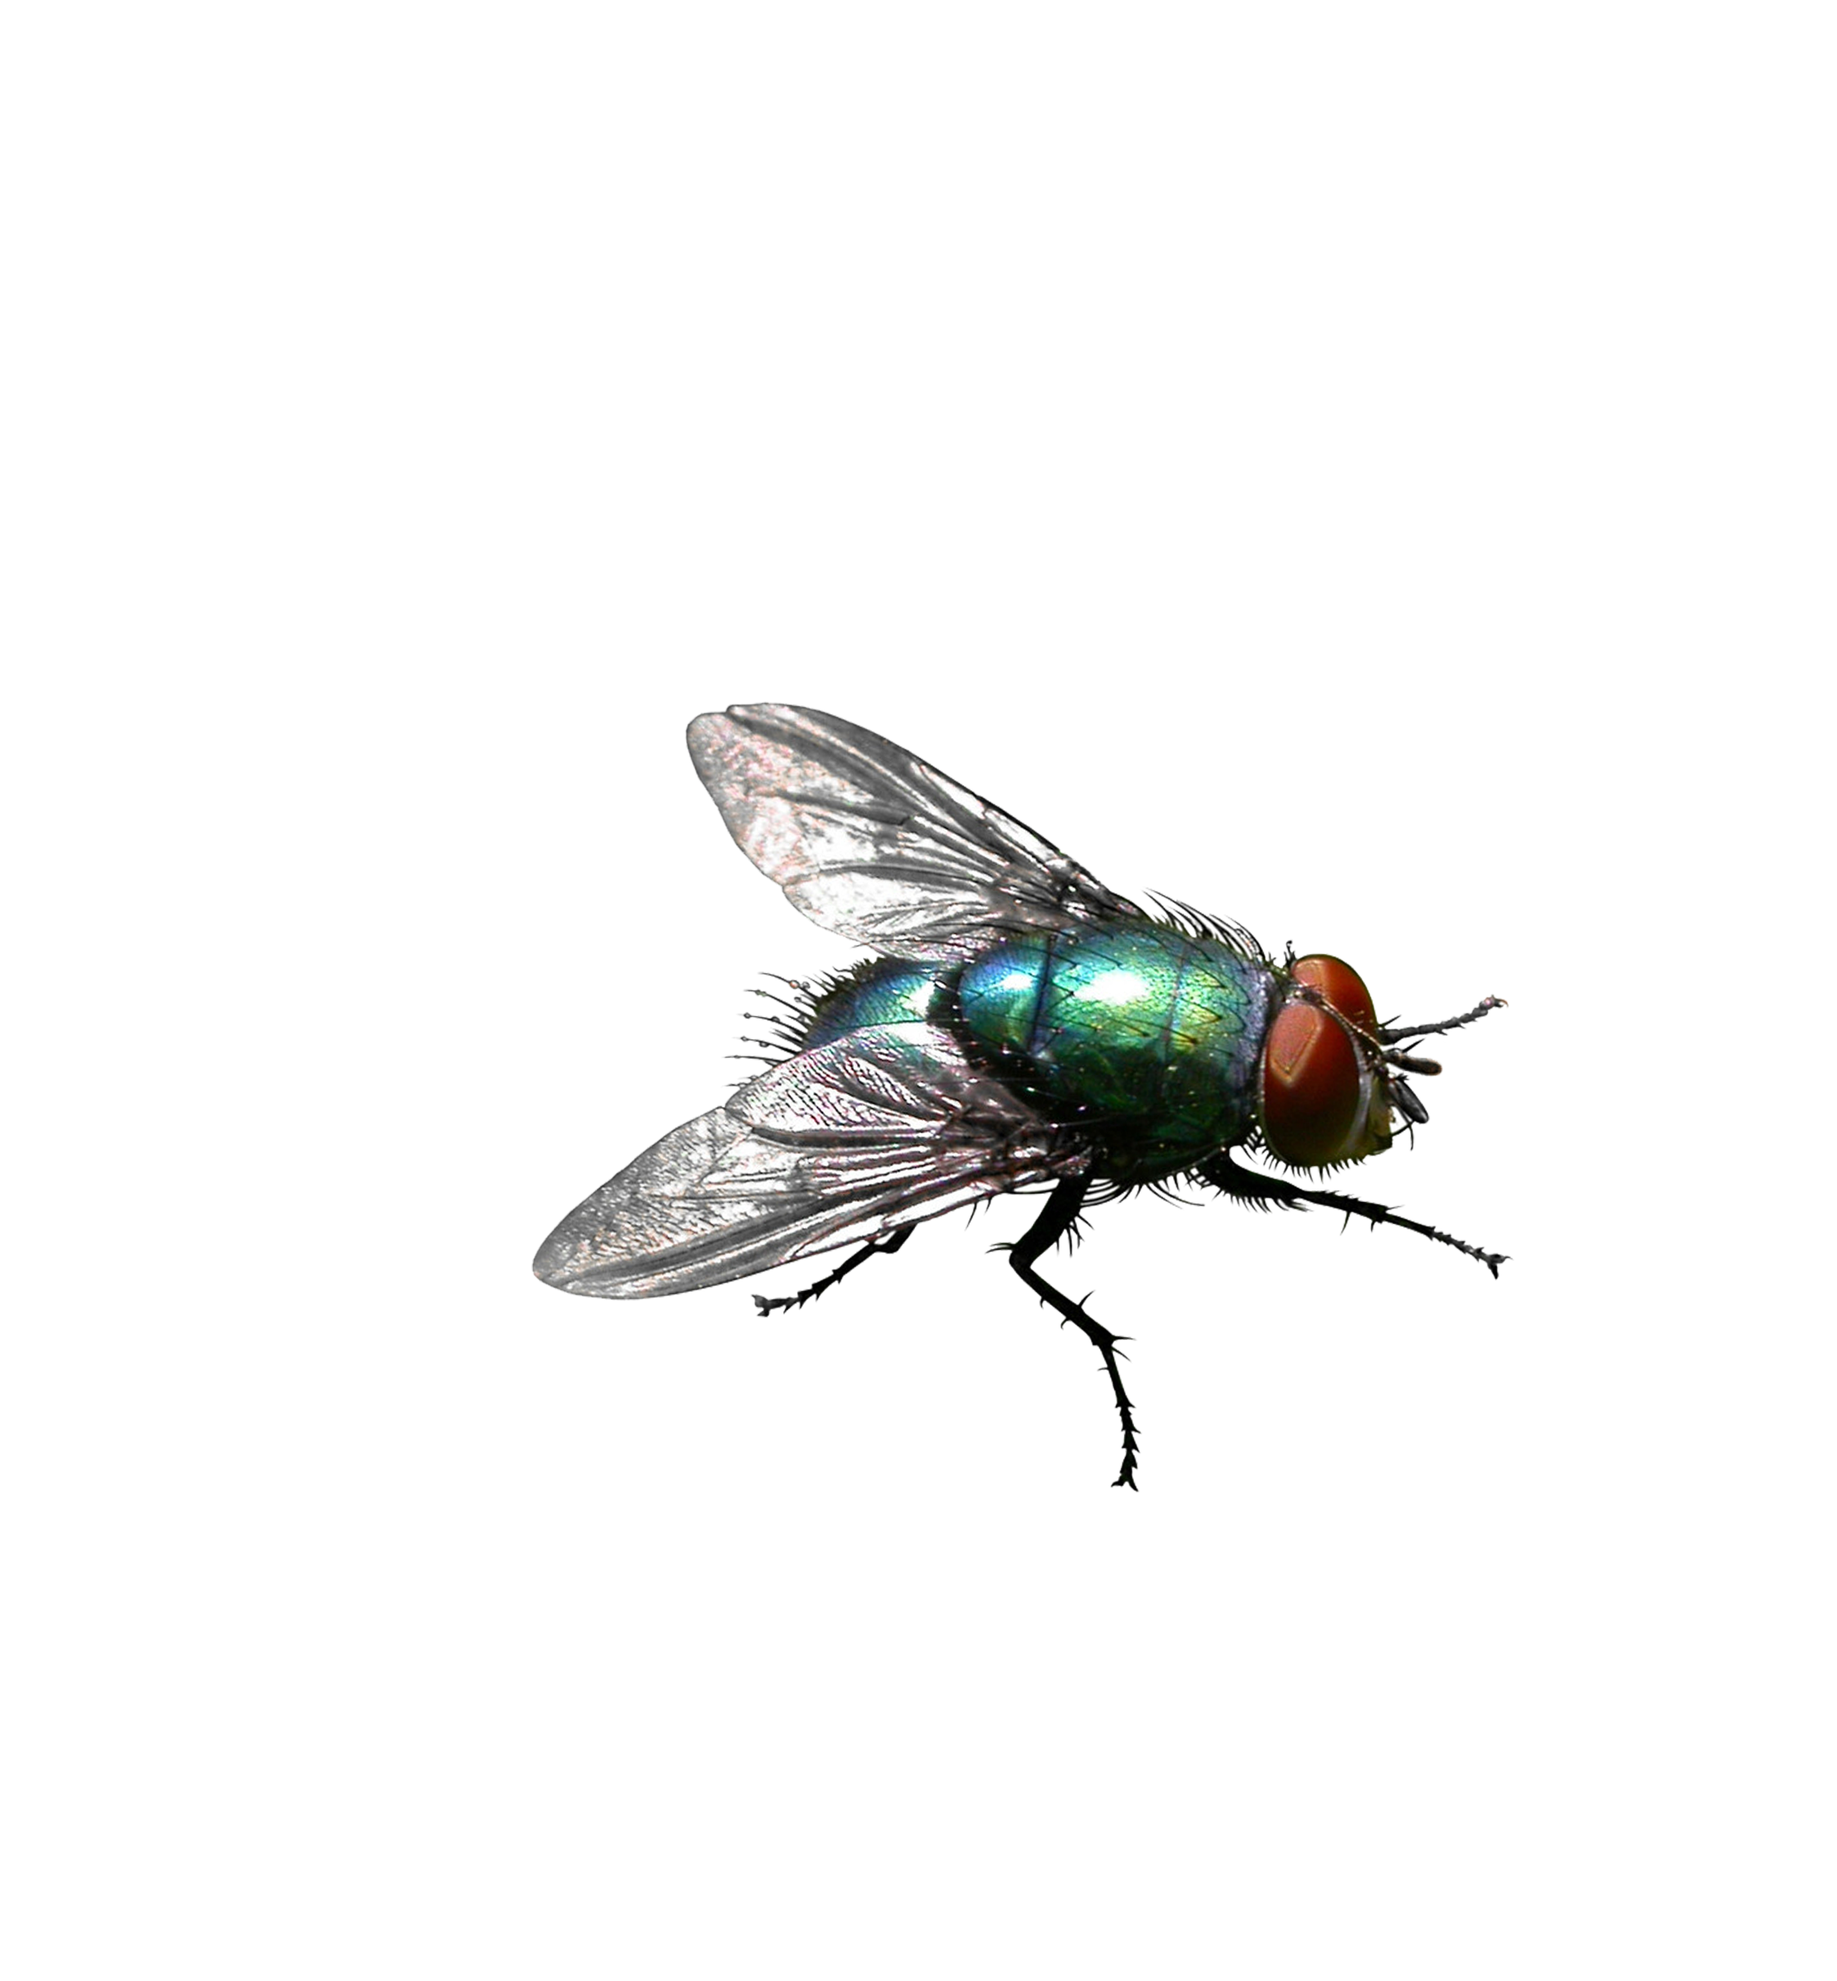
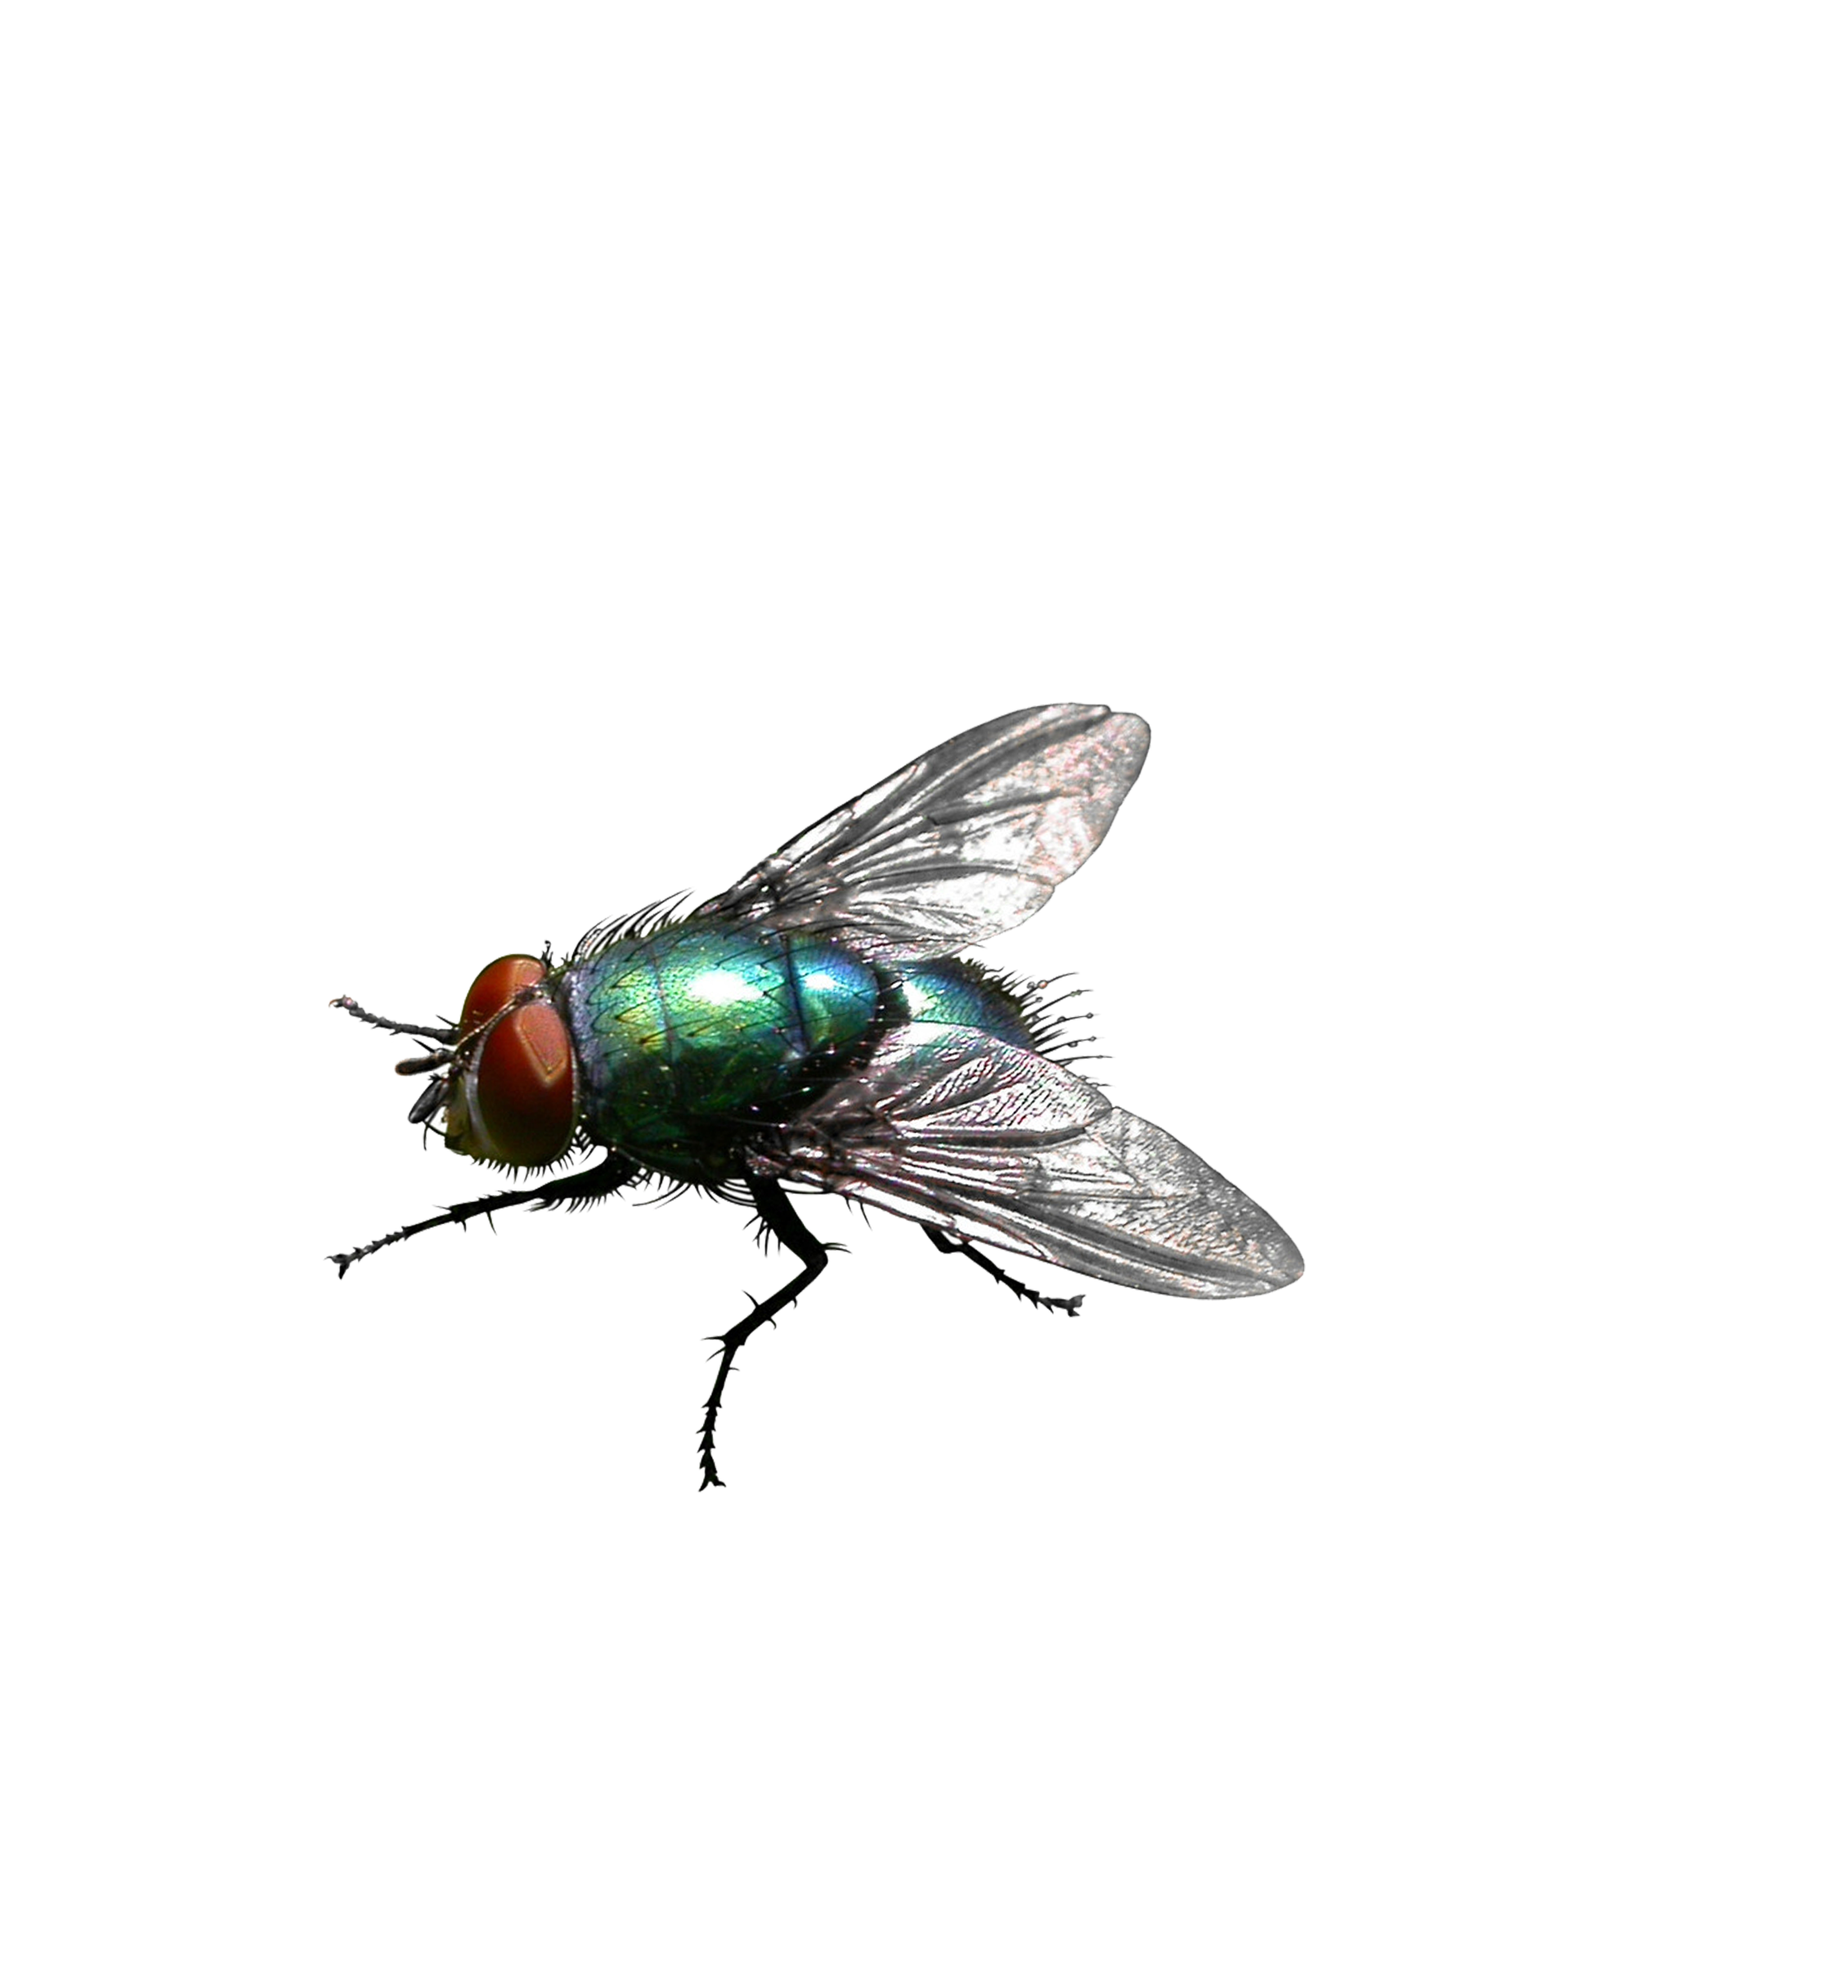
.

Changed region(s): [[0.1869, 0.3405, 0.81, 0.7429], [0.7788, 0.6191, 0.81, 0.65], [0.1869, 0.6191, 0.2181, 0.65]]

diff --git a/Game Insect Catch/style.css b/Game Insect Catch/style.css
@@ -45,6 +45,7 @@ h1 {
   justify-content: center;
   height: 100vh;
   width: 100vw;
+  transition: margin 0.5s ease-out;
 }
 .screen.up {
   margin-top: -100vh;
@@ -84,4 +85,65 @@ h1 {
   height: 100px;
   width: 100px;
   object-fit: contain;
+}
+
+.game-container {
+  position: relative;
+}
+
+.time,
+.score {
+  position: absolute;
+  top: 20px;
+}
+
+.time {
+  left: 20px;
+}
+
+.score {
+  right: 20px;
+}
+
+.message {
+  line-height: 1.7;
+  background-color: rgba(0, 0, 0, 0.5);
+  width: 100%;
+  padding: 20px;
+  z-index: 100;
+  text-align: center;
+  opacity: 0;
+  position: absolute;
+  top: 0;
+  left: 50%;
+  transform: translate(-50%, -150%);
+  transition: transform 0.4s ease-in;
+}
+
+.message.visible {
+  transform: translate(-50%, 150%);
+  opacity: 1;
+}
+
+.insect {
+  cursor: pointer;
+  display: flex;
+  align-items: center;
+  justify-content: center;
+  height: 100px;
+  width: 100px;
+  position: absolute;
+  transform: translate(-50%, -50%) scale(1);
+  transition: transform 0.3s ease-out;
+  top: 200px;
+  left: 300px;
+}
+
+.insect.caught {
+  transform: translate(-50%, -50%) scale(0);
+}
+
+.insect img {
+  height: 100px;
+  width: 100px;
 }

diff --git a/Game Insect Catch/script.js b/Game Insect Catch/script.js
@@ -1,3 +1,17 @@
 const screens = document.querySelectorAll(".screen");
 
-screens[0].classList.add("up");
+const choose_insect_btns = document.querySelectorAll(".choose-insect-btn");
+
+const start_btn = document.getElementById("start-btn");
+
+const game_container = document.querySelector(".game-container");
+
+const timeElement = document.getElementById("time");
+const scoreElement = document.getElementById("score");
+const messageElement = document.getElementById("message");
+
+let seconds = 0;
+let score = 0;
+let selected_insect = {};
+
+start_btn.addEventListener("click", () => screens[0].classList.add("up"));

diff --git a/Game Insect Catch/index.html b/Game Insect Catch/index.html
@@ -29,11 +29,15 @@
       </ul>
     </div>
 
-    <div class="screen game-container">
-      <h3 id="time">Time: 00:00</h3>
-      <h3 id="score">Score: 0</h3>
-      <h5 id="message">Você está irritado ainda?</h5>
+    <div class="screen game-container" id="game-container">
+      <h3 id="time" class="time">Time: 00:00</h3>
+      <h3 id="score" class="score">Score: 0</h3>
+      <h5 id="message" class="message">Você está irritado ainda?</h5>
+      <div class="insect">
+        <img src="images/pngwing.com.png" alt="" />
+      </div>
     </div>
+
     <script src="script.js"></script>
   </body>
 </html>
